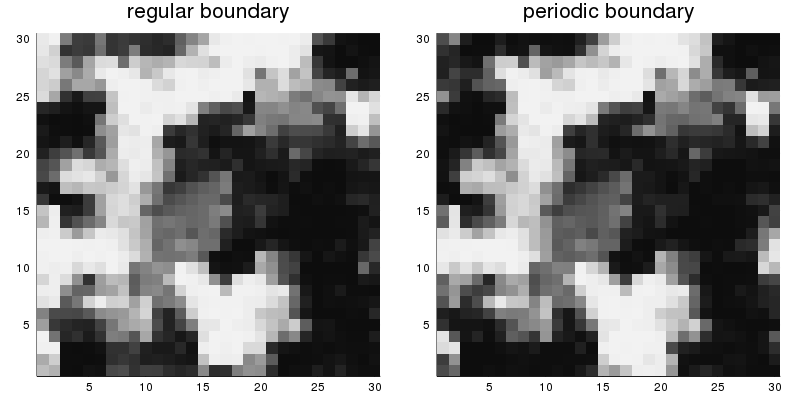
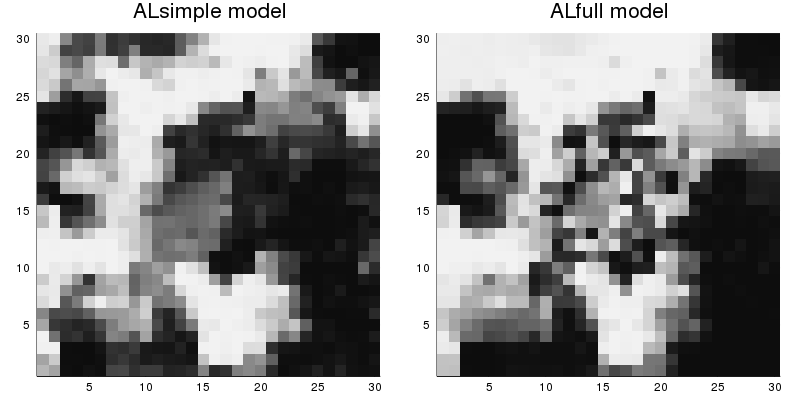
Added ALfull type and modified Ising example

diff --git a/docs/src/Examples.md b/docs/src/Examples.md
@@ -5,7 +5,7 @@ how to make some plots you might want to use.
 
 The examples:
 
-* [An Ising Model](@ref) shows how to use the package to explore the autologistic
+* [The Ising Model](@ref) shows how to use the package to explore the autologistic
   probability distribution, without concern about covariates or parameter estimation.
 * [Clustered Binary Data (Small ``n``)](@ref) shows how to use the package for regression
   analysis when the graph is small enough to permit computation of the normalizing constant.
@@ -14,7 +14,7 @@ The examples:
   analysis for larger, spatially-referenced graphs. In this case pseudolikelihood is used
   for estimation, and a (possibly parallelized) parametric bootstrap is used for inference.
 
-## An Ising Model
+## The Ising Model
 
 The term "Ising model" is usually used to refer to a Markov random field of dichotomous
 random variables on a regular lattice.  The graph is such that each variable shares an
@@ -28,38 +28,33 @@ In our terminology it's just an autologistic model with the appropriate graph.
 Specifically, it's an `ALsimple` model: one with `FullUnary` type unary parameter, and
 `SimplePairwise` type pairwise parameter.
 
-We can create such a model once we have the graph.  For example, let's create two 30-by-30
-lattices: one without any special handling of the boundary, and one with periodic boundary
-conditions. This can be done with
-[LightGraphs.jl](https://github.com/JuliaGraphs/LightGraphs.jl)'s `Grid` function.
+We can create such a model once we have the graph.  For example, let's create the model on a
+30-by-30 lattice:
 
 ```@example Ising
-n = 30  # numer of rows and columns
-using LightGraphs
-G1 = Grid([n, n], periodic=false)
-G2 = Grid([n, n], periodic=true)
+using Autologistic, Random
+Random.seed!(8888)
+n = 30
+G = makegrid4(n, n, (-1,1), (-1,1))
+α = randn(n^2)
+M1 = ALsimple(G.G, α)
 nothing # hide
 ```
 
-Now create an AL model for each case. Initialize the unary parameters to Gaussian white
-noise. By default the pairwise parameter is set to zero, which implies independence of the
-variables. Use the same parameters for the two models, so the only difference betwen them
-is the graph.
+Above, the line `G = makegrid4(n, n, (-1,1), (-1,1))` produces an n-by-n graph with vertices
+positioned over the square extending from ``-1`` to ``1`` in both directions.  It returns a
+tuple; `G.G` is the graph, and `G.locs` is
+an array of tuples giving the spatial coordinates of each vertex.
 
-```@example Ising
-using Random, Autologistic
-Random.seed!(8888)
-α = randn(n^2)
-M1 = ALsimple(G1, α)
-M2 = ALsimple(G2, α)
-nothing #hide
-```
+`M1 = ALsimple(G.G, α)` creates the model.  The unary parameters `α` were intialized to
+Gaussian white noise. By default the pairwise parameter is set to zero, which implies
+independence of the variables. 
 
-Typing `M2` at the REPL shows information about the model.  It's an `ALsimple` type with one
+Typing `M1` at the REPL shows information about the model.  It's an `ALsimple` type with one
 observation of length 900.
 
 ```@repl Ising
-M2
+M1
 ```
 
 The `conditionalprobabilities` function returns the probablity of observing a ``+1`` state
@@ -82,11 +77,22 @@ introduce a neighbor effect.
 
 ```@example Ising
 setpairwiseparameters!(M1, [0.75])
-setpairwiseparameters!(M2, [0.75])
 nothing # hide
 ```
 
-A quick way to see the effect of this parameter is to observe random samples from the
+We can also generalize the Ising model by allowing the pairwise parameters to be different
+for each edge of the graph.  The `ALfull` type represents such a model, which has a
+`FullUnary` type unary parameter, and a `FullPairwise` type pairwise parameter. For this
+example, let each edge's pairwise parameter be equal to the average distance of its two
+vertices from the origin.
+
+```@example Ising
+using LinearAlgebra, LightGraphs
+λ = [norm((G.locs[e.src] .+ G.locs[e.dst])./2) for e in edges(G.G)]
+M2 = ALfull(G.G, α, λ)
+```
+
+A quick way to compare models with nonzero association is to observe random samples from the
 models. The `sample` function can be used to do this. For this example, use perfect
 sampling using a bounding chain algorithm.
 
@@ -100,25 +106,26 @@ Other options are available for sampling.  The enumeration [`SamplingMethods`](@
 them. The samples we have just drawn can also be visualized using `heatmap`:
 
 ```@example Ising
-pl1 = heatmap(reshape(s1, n, n), c=:grays, colorbar=false, title="regular boundary");
-pl2 = heatmap(reshape(s2, n, n), c=:grays, colorbar=false, title="periodic boundary");
+pl1 = heatmap(reshape(s1, n, n), c=:grays, colorbar=false, title="ALsimple model");
+pl2 = heatmap(reshape(s2, n, n), c=:grays, colorbar=false, title="ALfull model");
 plot(pl1, pl2, size=(800,400), aspect_ratio=1)
 ```
 
 In these plots, black indicates the low state, and white the high state.  A lot of local
-clustering is occurring in the samples due to the neighbor effects.
+clustering is occurring in the samples due to the neighbor effects.  For the `ALfull` model,
+clustering is greater farther from the center of the square.
 
 To see the long-run differences between the two models, we can look at the marginal
 probabilities. They can be estimated by drawing many samples and averaging them
-(note that running this code chunk can take a couple of minutes):
+(note that running this code chunk can take a few minutes):
 
 ```julia
 marg1 = sample(M1, 500, method=perfect_bounding_chain, verbose=true, average=true)
 marg2 = sample(M2, 500, method=perfect_bounding_chain, verbose=true, average=true)
 pl3 = heatmap(reshape(marg1, n, n), c=:grays,
-              colorbar=false, title="regular boundary");
+              colorbar=false, title="ALsimple model");
 pl4 = heatmap(reshape(marg2, n, n), c=:grays,
-              colorbar=false, title="periodic boundary");
+              colorbar=false, title="ALfull model");
 plot(pl3, pl4, size=(800,400), aspect_ratio=1)
 savefig("marginal-probs.png")
 ```
@@ -127,9 +134,10 @@ The figure `marginal-probs.png` looks like this:
 
 ![marginal-probs.png](../assets/marginal-probs.png)
 
-Although the differences between the two marginal distributions are not striking, the
-extra edges connecting top/bottom and left/right do have some influence on the
-probabilities at the periphery of the square.
+The differences between the two marginal distributions are due to the different association
+structures, because the unary parts of the two models are the same.  The `ALfull` model has
+stronger association near the edges of the square, and weaker association near the center.
+The `ALsimple` model has a moderate association level throughout.
 
 As a final demonstration, perform Gibbs sampling for model `M2`, starting from
 a random state.  Display a gif animation of the progress.
